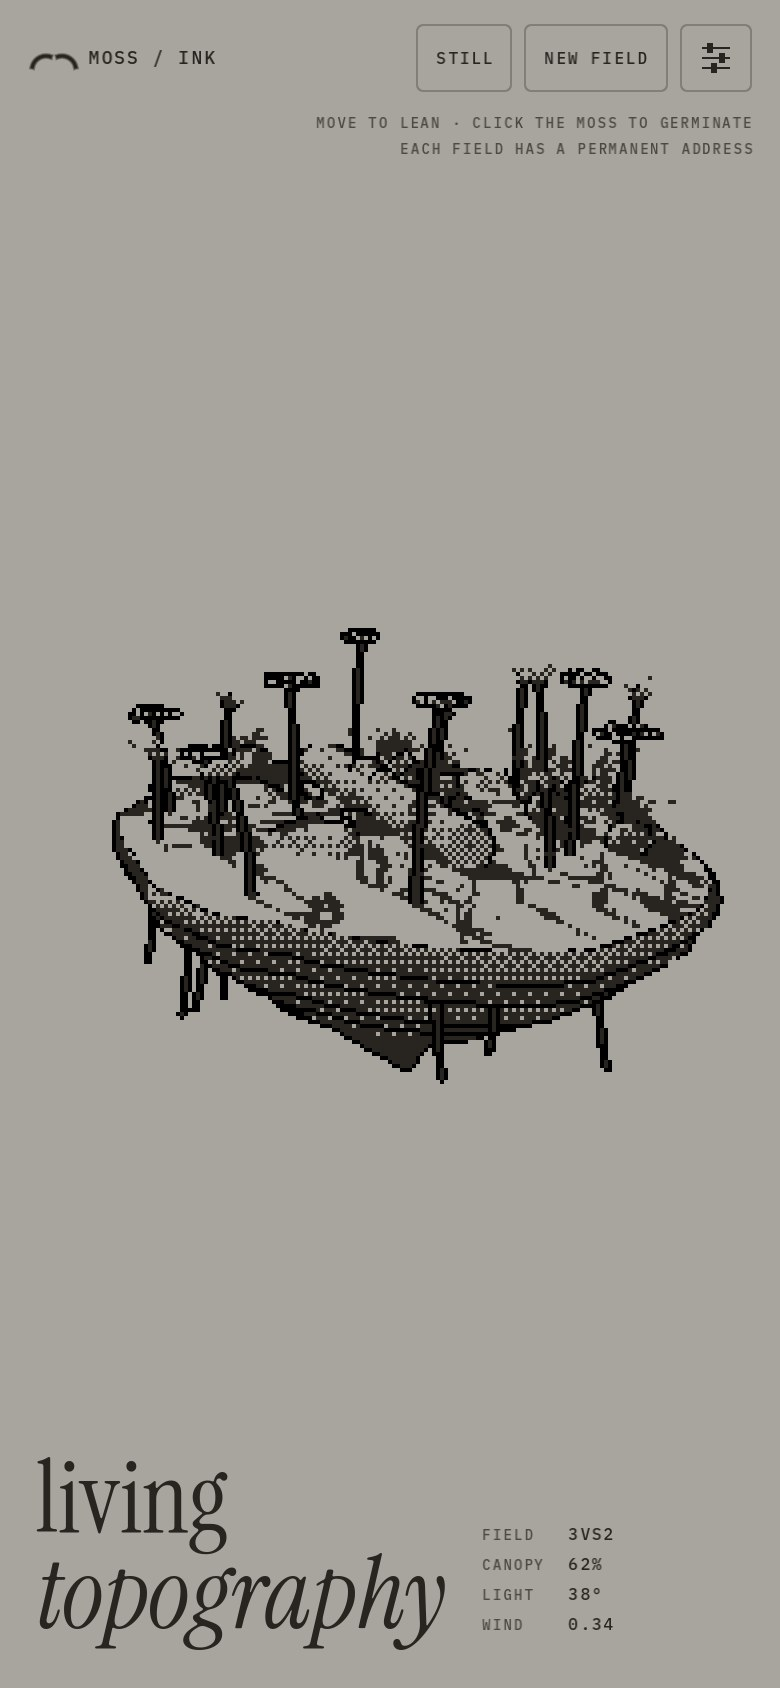
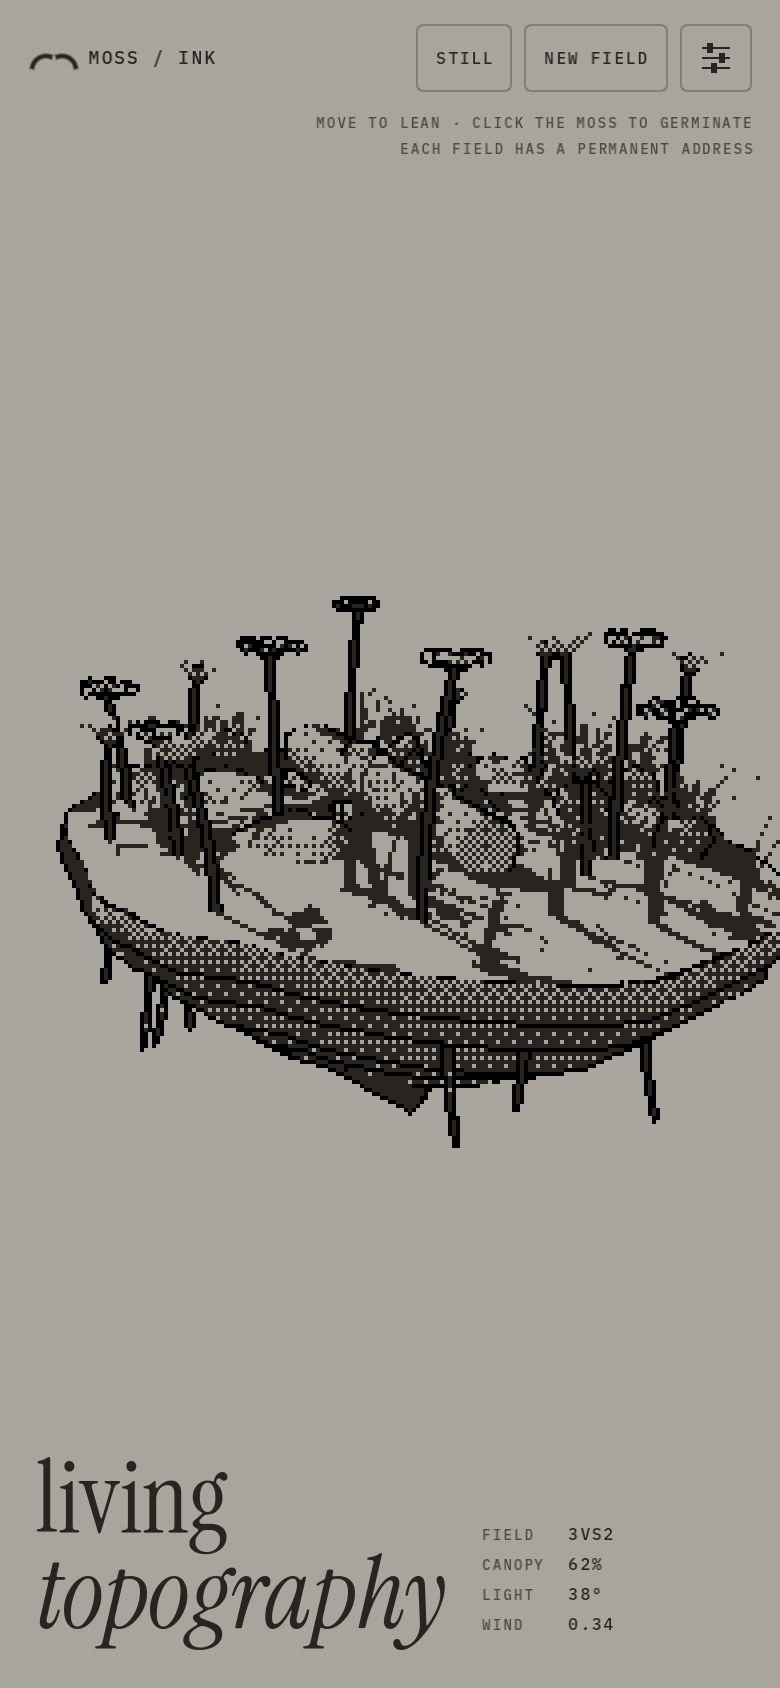
Pass 3: closer camera, wide ink grass fans

Changed region(s): [[0.0615, 0.3389, 1.0, 0.6777]]

diff --git a/index.html b/index.html
@@ -38,7 +38,7 @@ body{background:#a8a59e;color:#28241f;overflow:hidden;touch-action:none;font-fam
 </div>
 <script src="index.js"></script>
 <script>
-const GODOT_CONFIG = {"args":[],"canvasResizePolicy":2,"emscriptenPoolSize":8,"ensureCrossOriginIsolationHeaders":true,"executable":"index","experimentalVK":true,"fileSizes":{"index.pck":212044,"index.wasm":39514754},"focusCanvas":true,"gdextensionLibs":[],"godotPoolSize":4};
+const GODOT_CONFIG = {"args":[],"canvasResizePolicy":2,"emscriptenPoolSize":8,"ensureCrossOriginIsolationHeaders":true,"executable":"index","experimentalVK":true,"fileSizes":{"index.pck":212060,"index.wasm":39514754},"focusCanvas":true,"gdextensionLibs":[],"godotPoolSize":4};
 const GODOT_THREADS_ENABLED = false;
 (function () {
   const boot = document.getElementById('boot'), fill = document.getElementById('fill');
